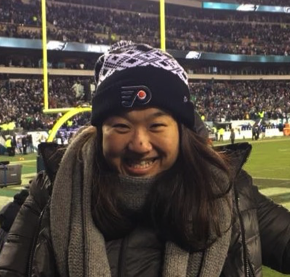
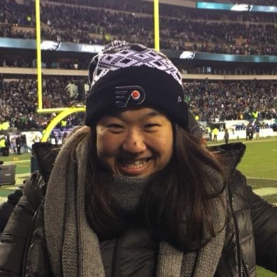
Resize profile Images to square

diff --git a/index.html b/index.html
@@ -110,8 +110,20 @@
 					<footer>
 						<section class="counselorsSlideshow slider">
 							<div>
-								<img src="./assets/img/DanielGao.jpeg">
+								<img src="./assets/img/DanielGao.jpg">
 								<p>Daniel Gao</p>
+							</div>
+							<div>
+								<img src="./assets/img/AileenSetiawan.png">
+								<p>Aileen Setiawan</p>
+							</div>
+							<div>
+								<img src="./assets/img/LemuelFung.jpg">
+								<p>Lemuel Fung</p>
+							</div>
+							<div>
+								<img src="./assets/img/JaneXu.png">
+								<p>Jane Xu</p>
 							</div>
 							<div>
 								<img src="./assets/img/BobMcNeill.png">
@@ -120,18 +132,6 @@
 							<div>
 								<img src="./assets/img/MeiMcNeill.png">
 								<p>Mei McNeill</p>
-							</div>
-							<div>
-								<img src="./assets/img/AileenSetiawan.png">
-								<p>Aileen Setiawan</p>
-							</div>
-							<div>
-								<img src="./assets/img/LemuelFung.jpeg">
-								<p>Lemuel Fung</p>
-							</div>
-							<div>
-								<img src="./assets/img/JaneXu.png">
-								<p>Jane Xu</p>
 							</div>
 						</section>
 					</footer>
@@ -164,13 +164,13 @@
                             </header>
                         </article> <!--end card-->
                         <article class="col-4 col-12-mobile special"> <!--start card-->
-                            <a href="nancyonlok.html" class="image featured"><img src="http://placehold.it/300x300?text=On Lok House" alt="" /></a>
+                            <a href="nancyonlok.html" class="image featured"><img src="https://placehold.it/300x300?text=On Lok House" alt="" /></a>
                             <header>
                                 <h3><a href="./nancyonlok.html">Nancy On Lok House</a></h3>
                             </header>
                         </article> <!--end card-->
                         <article class="col-4 col-12-mobile special"> <!--start card-->
-                            <a href="retirement.html" class="image featured"><img src="http://placehold.it/300x300?text=Retirement Home" alt="" /></a>
+                            <a href="retirement.html" class="image featured"><img src="https://placehold.it/300x300?text=Retirement Home" alt="" /></a>
                             <header>
                                 <h3><a href="./retirement.html">Retirement Home</a></h3>
                             </header>
@@ -217,7 +217,6 @@
 				$("#footer").load("footer.html");
 				$(".currentSchedule").slick({
 					dots: true,
-					infinite: true,
 					slidesToShow: 4,
 					slidesToScroll: 4,
 					responsive: [
